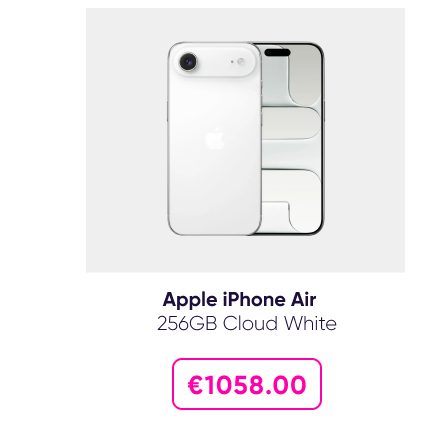
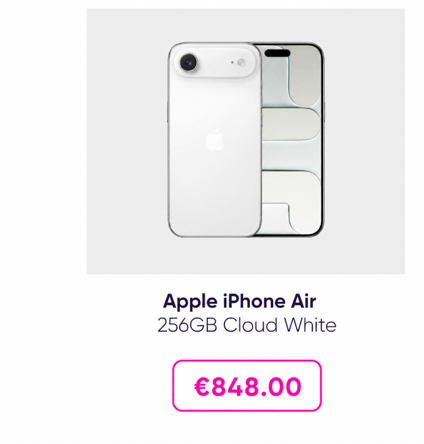
add build.py generator to newsletter folder (SOP reference)

diff --git a/monthly-newsletter/august-v2-funfacts/index-relative.html b/monthly-newsletter/august-v2-funfacts/index-relative.html
@@ -8,7 +8,7 @@
 <table role="presentation" width="100%" cellpadding="0" cellspacing="0" border="0" style="background:#efe9f2;"><tr><td align="center" style="padding:0;">
 <table role="presentation" width="600" cellpadding="0" cellspacing="0" border="0" style="width:100%;max-width:600px;">
 <tr><td style="padding:0;font-size:0;line-height:0;"><a href="https://www.datadirect.ie/products" target="_blank" style="display:block;line-height:0;"><img src="slices/nl3-1.png" width="600" height="407" alt="Your month in DataDirect — welcome. Explore the store." style="display:block;width:100%;max-width:600px;height:auto;border:0;" /></a></td></tr>
-<tr><td style="padding:0;font-size:0;line-height:0;"><img src="slices/nl3-2a.png" width="600" height="39" alt="Products of the week" style="display:block;width:100%;max-width:600px;height:auto;border:0;" /></td></tr><tr><td style="padding:0;font-size:0;line-height:0;"><table role="presentation" width="100%" cellpadding="0" cellspacing="0" border="0" style="width:100%;"><tr><td width="35.33%" valign="top" style="padding:0;font-size:0;line-height:0;"><a href="https://www.datadirect.ie/product-details?productId=CQ00959" target="_blank" style="display:block;line-height:0;"><img src="slices/nl3-2b.png" width="212" height="222" alt="Apple iPhone Air 256GB, EUR 1058, view product" style="display:block;width:100%;height:auto;border:0;" /></a></td><td width="29.67%" valign="top" style="padding:0;font-size:0;line-height:0;"><a href="https://www.datadirect.ie/product-details?productId=CP28492" target="_blank" style="display:block;line-height:0;"><img src="slices/nl3-2c.png" width="178" height="222" alt="HP EliteBook 6 G1ah 16-inch, EUR 989, view product" style="display:block;width:100%;height:auto;border:0;" /></a></td><td width="35.00%" valign="top" style="padding:0;font-size:0;line-height:0;"><a href="https://www.datadirect.ie/product-details?productId=CQ00952" target="_blank" style="display:block;line-height:0;"><img src="slices/nl3-2d.png" width="210" height="222" alt="Samsung Galaxy Tab, EUR 156, view product" style="display:block;width:100%;height:auto;border:0;" /></a></td></tr></table></td></tr>
+<tr><td style="padding:0;font-size:0;line-height:0;"><img src="slices/nl3-2a.png" width="600" height="39" alt="Products of the week" style="display:block;width:100%;max-width:600px;height:auto;border:0;" /></td></tr><tr><td style="padding:0;font-size:0;line-height:0;"><table role="presentation" width="100%" cellpadding="0" cellspacing="0" border="0" style="width:100%;"><tr><td width="35.33%" valign="top" style="padding:0;font-size:0;line-height:0;"><a href="https://www.datadirect.ie/product-details?productId=CQ00959" target="_blank" style="display:block;line-height:0;"><img src="https://146425634.fs1.hubspotusercontent-eu1.net/hubfs/146425634/nl3-2b.png" width="212" height="222" alt="Apple iPhone Air 256GB, EUR 848, view product" style="display:block;width:100%;height:auto;border:0;" /></a></td><td width="29.67%" valign="top" style="padding:0;font-size:0;line-height:0;"><a href="https://www.datadirect.ie/product-details?productId=CP28492" target="_blank" style="display:block;line-height:0;"><img src="slices/nl3-2c.png" width="178" height="222" alt="HP EliteBook 6 G1ah 16-inch, EUR 989, view product" style="display:block;width:100%;height:auto;border:0;" /></a></td><td width="35.00%" valign="top" style="padding:0;font-size:0;line-height:0;"><a href="https://www.datadirect.ie/product-details?productId=CQ00075" target="_blank" style="display:block;line-height:0;"><img src="slices/nl3-2d.png" width="210" height="222" alt="Samsung Galaxy Tab, EUR 156, view product" style="display:block;width:100%;height:auto;border:0;" /></a></td></tr></table></td></tr>
 <tr><td style="padding:0;font-size:0;line-height:0;"><img src="slices/nl3-3.png" width="600" height="606" alt="Our winners: World Cup Top 4 and F1 Prize Draw. Our partners. Where we've been." style="display:block;width:100%;max-width:600px;height:auto;border:0;" /></td></tr>
 <tr><td style="padding:0;font-size:0;line-height:0;"><img src="slices/nl3-4.png" width="600" height="346" alt="An afternoon with Kensington." style="display:block;width:100%;max-width:600px;height:auto;border:0;" /></td></tr>
 <tr><td style="padding:0;font-size:0;line-height:0;"><img src="slices/nl3-5.png" width="600" height="374" alt="What we learned this month." style="display:block;width:100%;max-width:600px;height:auto;border:0;" /></td></tr>

diff --git a/monthly-newsletter/august-v2-funfacts/build.py b/monthly-newsletter/august-v2-funfacts/build.py
@@ -1,0 +1,60 @@
+import base64
+from PIL import Image
+SLD="slices"
+FULL=[  # (name, link, alt)
+ ("s1","https://www.datadirect.ie/products","Your month in DataDirect — welcome. Explore the store."),
+ ("s4",None,"Our winners: World Cup Top 4 and F1 Prize Draw. Our partners. Where we've been."),
+ ("s5",None,"An afternoon with Kensington."),
+ ("s6",None,"What we learned this month."),
+ ("s7","https://www.datadirect.ie/it-solutions","Got a tricky problem? See examples of our work."),
+ ("s8",None,"Fun fact — Merlin the Duck, Team Mexico's unofficial World Cup mascot."),
+ ("s9",None,"More competitions; webinars and supplier visits."),
+ ("s10","https://www.linkedin.com/company/data-direct/","Coming to our shop — something worth waiting for. Follow on LinkedIn."),
+ ("s11",None,"Launching September — big deals on the way."),
+ ("s12","mailto:sales@datadirect.ie","Over to you — we'd love to hear from you. Tell us what you think."),
+ ("s13",None,"Thanks for reading. DataDirect."),
+]
+PCOLS=[("p1","https://www.datadirect.ie/product-details?productId=CQ00959","Apple iPhone Air 256GB, EUR 1058, view product"),
+       ("p2","https://www.datadirect.ie/product-details?productId=CP28492","HP EliteBook 6 G1ah 16-inch, EUR 989, view product"),
+       ("p3","https://www.datadirect.ie/product-details?productId=CQ00952","Samsung Galaxy Tab, EUR 156, view product")]
+SEQ=["s1","PRODUCTS","s4","s5","s6","s7","s8","s9","s10","s11","s12","s13"]
+def dh(n):
+    w,h=Image.open(f"{SLD}/{n}.png").size; return round(h/2)
+def dw(n):
+    w,h=Image.open(f"{SLD}/{n}.png").size; return round(w/2)
+def fullrow(n,link,alt,src):
+    img=f'<img src="{src(n)}" width="600" height="{dh(n)}" alt="{alt}" style="display:block;width:100%;max-width:600px;height:auto;border:0;" />'
+    if link: img=f'<a href="{link}" target="_blank" style="display:block;line-height:0;">{img}</a>'
+    return f'<tr><td style="padding:0;font-size:0;line-height:0;">{img}</td></tr>'
+def products(src):
+    head=f'<tr><td style="padding:0;font-size:0;line-height:0;"><img src="{src("p-head")}" width="600" height="{dh("p-head")}" alt="Products of the week" style="display:block;width:100%;max-width:600px;height:auto;border:0;" /></td></tr>'
+    tds=""
+    for nm,url,alt in PCOLS:
+        wpct=f'{Image.open(f"{SLD}/{nm}.png").size[0]/1200*100:.2f}%'
+        img=f'<img src="{src(nm)}" width="{dw(nm)}" height="{dh(nm)}" alt="{alt}" style="display:block;width:100%;height:auto;border:0;" />'
+        tds+=f'<td width="{wpct}" valign="top" style="padding:0;font-size:0;line-height:0;"><a href="{url}" target="_blank" style="display:block;line-height:0;">{img}</a></td>'
+    row=f'<tr><td style="padding:0;font-size:0;line-height:0;"><table role="presentation" width="100%" cellpadding="0" cellspacing="0" border="0" style="width:100%;"><tr>{tds}</tr></table></td></tr>'
+    return head+row
+def body(src):
+    d={n:(l,a) for n,l,a in FULL}
+    out=[]
+    for it in SEQ:
+        if it=="PRODUCTS": out.append(products(src))
+        else: l,a=d[it]; out.append(fullrow(it,l,a,src))
+    return "\n".join(out)
+def page(inner):
+    return f'''<!DOCTYPE html PUBLIC "-//W3C//DTD XHTML 1.0 Transitional//EN" "https://www.w3.org/TR/xhtml1/DTD/xhtml1-transitional.dtd">
+<html xmlns="http://www.w3.org/1999/xhtml"><head>
+<meta charset="utf-8" /><meta name="viewport" content="width=device-width, initial-scale=1.0" />
+<title>Your Month in DataDirect</title>
+<style>html,body{{margin:0!important;padding:0!important}}body{{background:#efe9f2}}img{{border:0;display:block;-ms-interpolation-mode:bicubic}}table{{border-collapse:collapse!important}}</style>
+</head><body style="margin:0;padding:0;background:#efe9f2;">
+<div style="display:none;max-height:0;overflow:hidden;opacity:0;color:#efe9f2;font-size:1px;">Your month in DataDirect — products of the week, winners, a fun fact, and what's coming next.</div>
+<table role="presentation" width="100%" cellpadding="0" cellspacing="0" border="0" style="background:#efe9f2;"><tr><td align="center" style="padding:0;">
+<table role="presentation" width="600" cellpadding="0" cellspacing="0" border="0" style="width:100%;max-width:600px;">
+{inner}
+</table></td></tr></table></body></html>'''
+import sys
+if __name__=="__main__":
+    open("index.html","w").write(page(body(lambda n:f"slices/{n}.png")))
+    print("wrote index.html")
